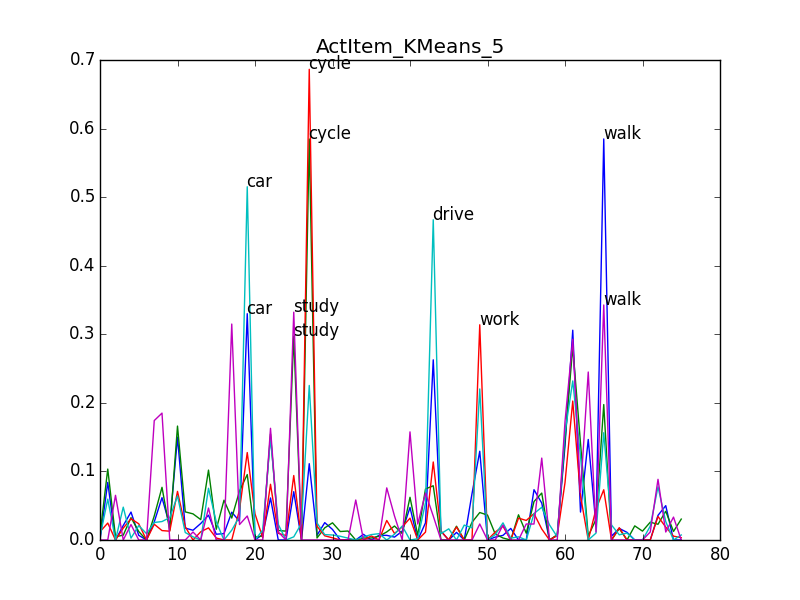
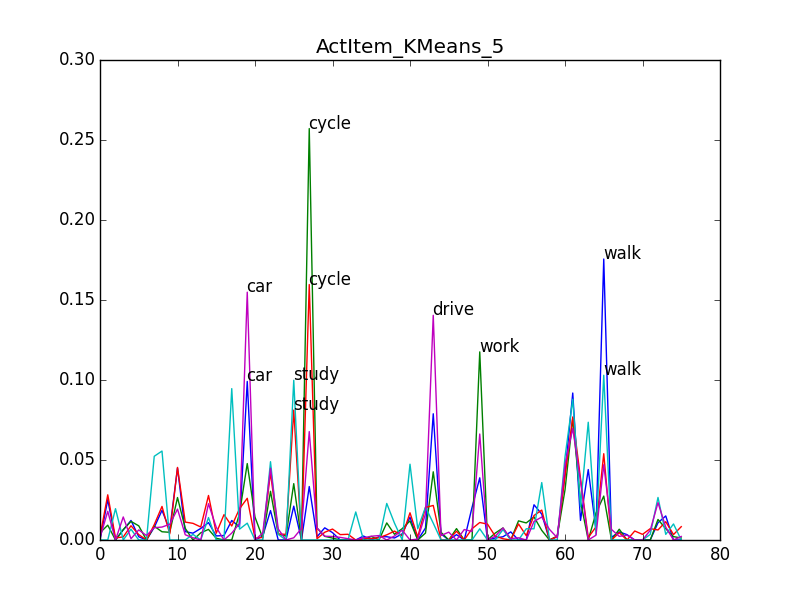
kmeans label update

diff --git a/clusteringKmeansLabels.py b/clusteringKmeansLabels.py
@@ -68,27 +68,30 @@ def KM(domain, metric):
 				sumVec += x 
 			meanVec = sumVec/i 
 			meanVec.tolist()
+			# totalSum = np.sum(meanVec[0])
+			# print totalSum
+			# meanVec = meanVec/totalSum
 			
 			firstMax = np.max(meanVec[0])
-			print firstMax
+			# print firstMax
 			tempVec = np.copy(meanVec)
 			for j in range(X.shape[1]):
 				if tempVec[0,j] == firstMax:
 					tempVec[0,j] = 0
 			secondMax = np.max(tempVec[0])
-			print secondMax
+			# print secondMax
 			tempVec2 = np.copy(tempVec)
 			for j in range(X.shape[1]):
 				if tempVec2[0,j]==secondMax:
 					tempVec2[0,j] = 0
 			thirdMax = np.max(tempVec2[0])
-			print thirdMax
+			# print thirdMax
 
 			
 			x = range(X.shape[1])
 			plt.title(domain+'_KMeans_'+str(n_clusters))
 			plt.plot(x,meanVec[0])
-			print meanVec[0]
+			# print meanVec[0]
 			for j in range(X.shape[1]):
 				# if meanVec[0,j] == firstMax:
 				if meanVec[0,j] == firstMax or meanVec[0,j] == secondMax:
@@ -100,6 +103,9 @@ def KM(domain, metric):
 		# print row_labels
 		#plt.xlabel(row_labels)
 		plt.savefig('VisClustering'+domain+'Pattern/KMeans_'+metric+'_'+str(n_clusters)+'_groupFreq')
+
+def test(domain,metric):
+	ll = ['5','20','26']
 
 for domain in Domain:
 	for metric in Metric:

diff --git a/clusteringKmeans.py b/clusteringKmeans.py
@@ -36,7 +36,7 @@ def KM(domain, metric):
 	X = utilise.normArray(X)
 
 	# range_n_clusters = [2, 3, 4, 5, 6]
-	range_n_clusters = [5]
+	range_n_clusters = [4]
 	
 	for n_clusters in range_n_clusters:
 		# fw = open('labels_KMeans_'+domain+'_'+str(n_clusters)+'.txt','w')
@@ -104,8 +104,8 @@ def KM(domain, metric):
 			# plt.show()
 		
 
-# for domain in Domain:
-	# for metric in Metric:
-		# KM(domain, metric)
+for domain in Domain:
+	for metric in Metric:
+		KM(domain, metric)
 
-KM('ActItem', 'TFIDF')
+# KM('ActItem', 'TFIDF')
